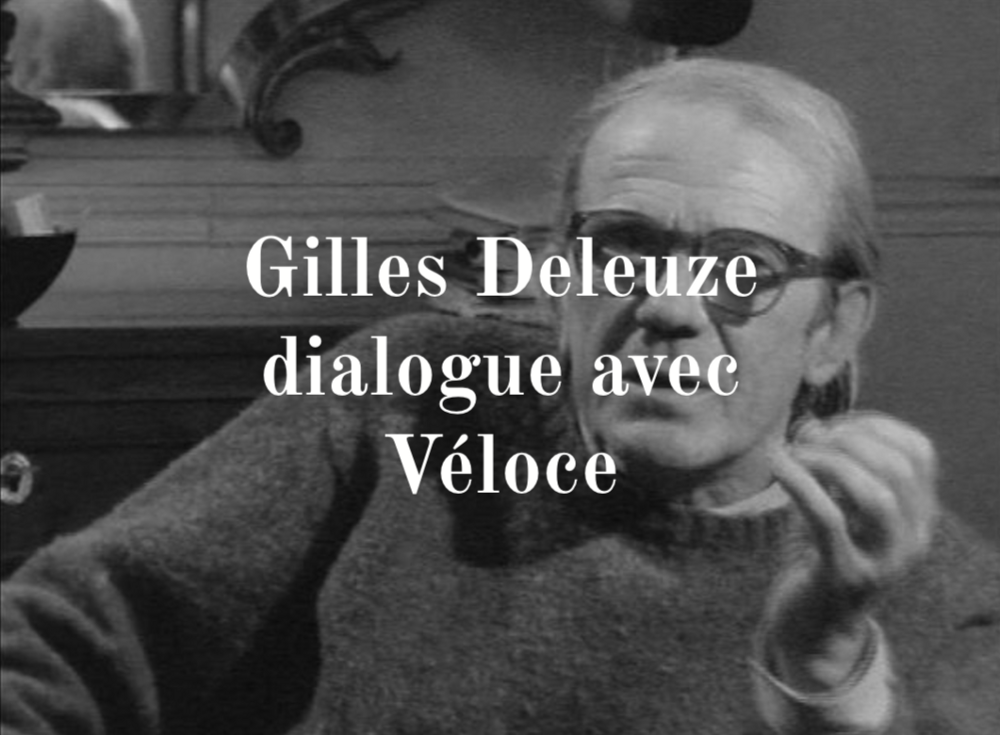
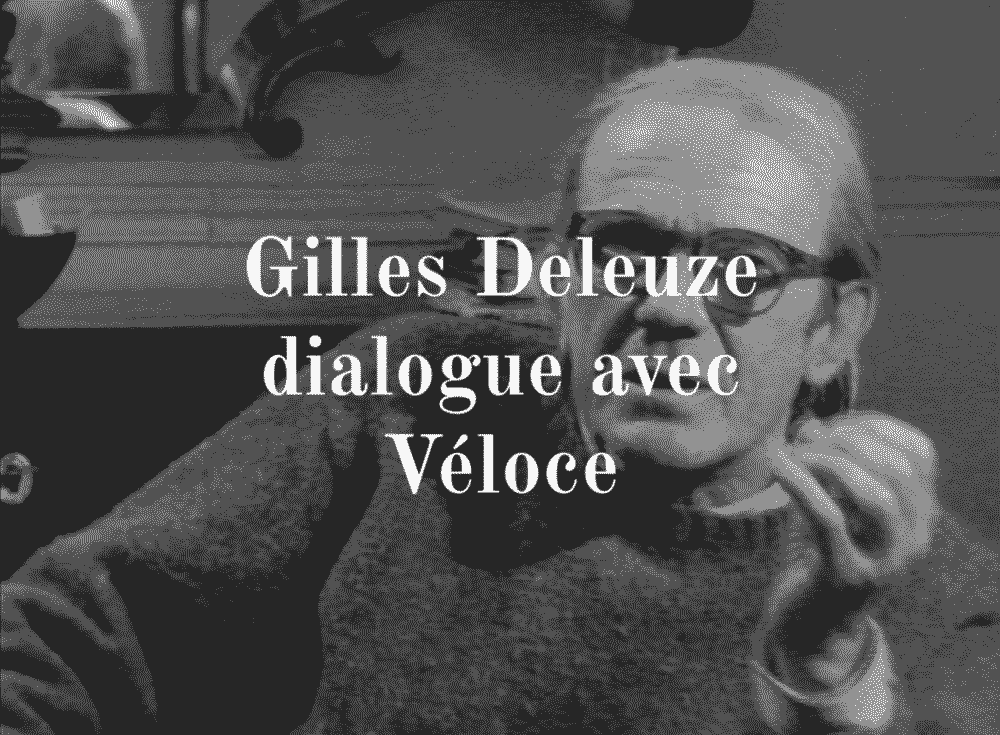
Dithered images

diff --git a/index.html b/index.html
@@ -31,7 +31,7 @@
 							</ul>
 						</div>
 						<div class="image">
-							<img src="images/an-infinite-continuity-rhizome-vishnu-jadia-1-e1467036936366.jpg" alt="" />
+							<img src="images/an-infinite-continuity-rhizome-vishnu-jadia-1-e1467036936366.png" alt="" />
 						</div>
 					</section>
 
@@ -45,7 +45,7 @@
 							</p>
 						</div>
 						<div class="image">
-							<img src="images/sunface.jpg" alt="" />
+							<img src="images/sunface.png" alt="" />
 						</div>
 					</section>
 
@@ -62,7 +62,7 @@
 							</ul>
 						</div>
 						<div class="image">
-							<img src="images/phantasia.jpg" alt="" />
+							<img src="images/phantasia.png" alt="" />
 						</div>
 					</section>
 
@@ -78,7 +78,7 @@
 							</ul>
 						</div>
 						<div class="image">
-							<img src="images/louise-drulhe-internet.jpeg" alt="" />
+							<img src="images/louise-drulhe-internet.png" alt="" />
 						</div>
 					</section>
 
@@ -97,7 +97,7 @@
 													<h2>Mise au point : Internet n’est pas un espace lisse</h2>
 												</header>
 												<div class="image ">
-													<a href="https://medium.com/@hindelstark/mise-au-point-internet-nest-pas-un-espace-lisse-6693d0e4d60a"><img src="images/louise-drulhe-the-two-webs.jpeg" alt="" width=100%/></a>
+													<a href="https://medium.com/@hindelstark/mise-au-point-internet-nest-pas-un-espace-lisse-6693d0e4d60a"><img src="images/louise-drulhe-the-two-webs.png" alt="" width=100%/></a>
 												</div>
 												<p> La désignation d’Internet comme un espace sonne presque comme une invitation à le penser à l’aide des termes de Gilles Deleuze, "espace lisse" ou "espace strié". Contrairement à une opinion commune, nous pensons qu'il est osé d’affirmer qu’à un moment quelconque, l’espace d’Internet n’ait jamais pu être particulièrement lisse, il est même fort probable que la présence d’espaces lisses sur Internet soit en forte décroissance.</br>
 												Cet article a été republié par les carnets de recherche <a href="https://dlis.hypotheses.org/2907">DLIS</a> (Digital Libraries & Information Sciences), de l'<a href="https://www.enssib.fr/">ENSSIB</a>, (École Nationale Supérieure des Sciences de l'Information et des Bibliothèques.</p>
@@ -124,7 +124,7 @@
 													<h2>Internet, réseau démocratique ou espace privé, surveillé, contrôlé ?</h2>
 												</header>
 												<div class="image">
-													<a href="https://medium.com/@hindelstark/internet-r%C3%A9seau-d%C3%A9mocratique-ou-espace-priv%C3%A9-surveill%C3%A9-contr%C3%B4l%C3%A9-d9f1c3530e94"><img src="images/hindelstark-internet.jpeg" alt="" width=100%/></a>
+													<a href="https://medium.com/@hindelstark/internet-r%C3%A9seau-d%C3%A9mocratique-ou-espace-priv%C3%A9-surveill%C3%A9-contr%C3%B4l%C3%A9-d9f1c3530e94"><img src="images/hindelstark-internet.png" alt="" width=100%/></a>
 												</div>
 												<p>Internet n’est pas un monde à part « virtuel », séparé du monde réel, qui ne s’ajouterait à lui que comme un supplément. Comme tout espace, Internet est traversé par des luttes territoriales : qui s’en empare, qui le maîtrise, qui l’aménage ?</br>
 												Cet article a été republié par la revue <a href="https://grozeille.co/internet-reseau-democratique-ou-espace-prive-hierarchise-controle/">Grozeille</a>.</p>
